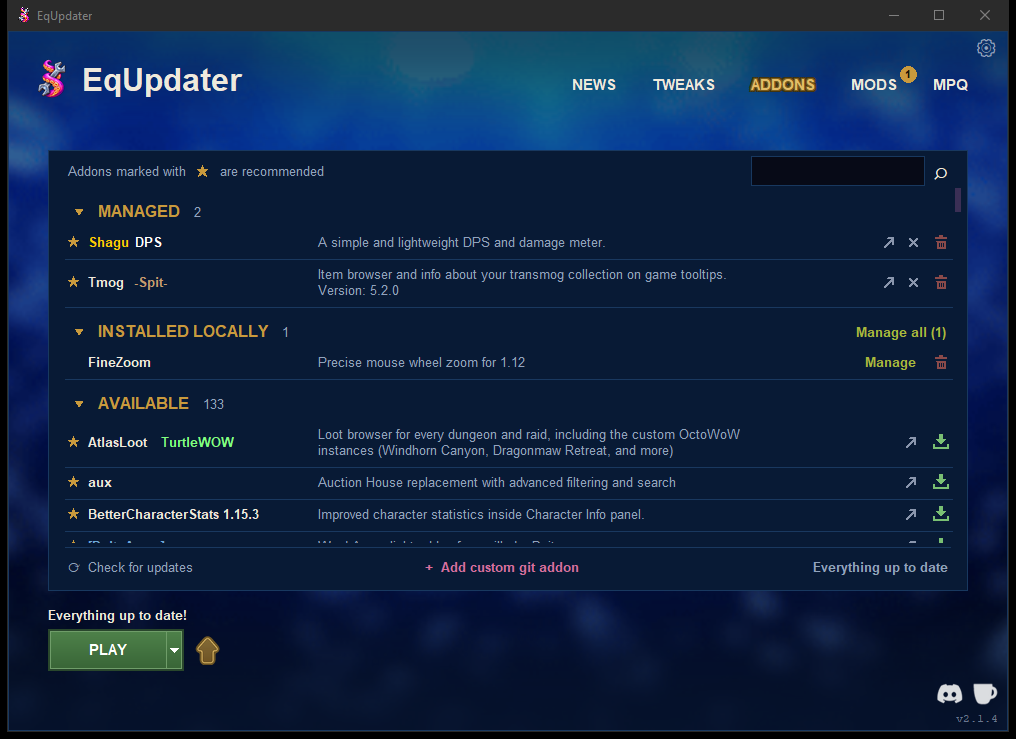
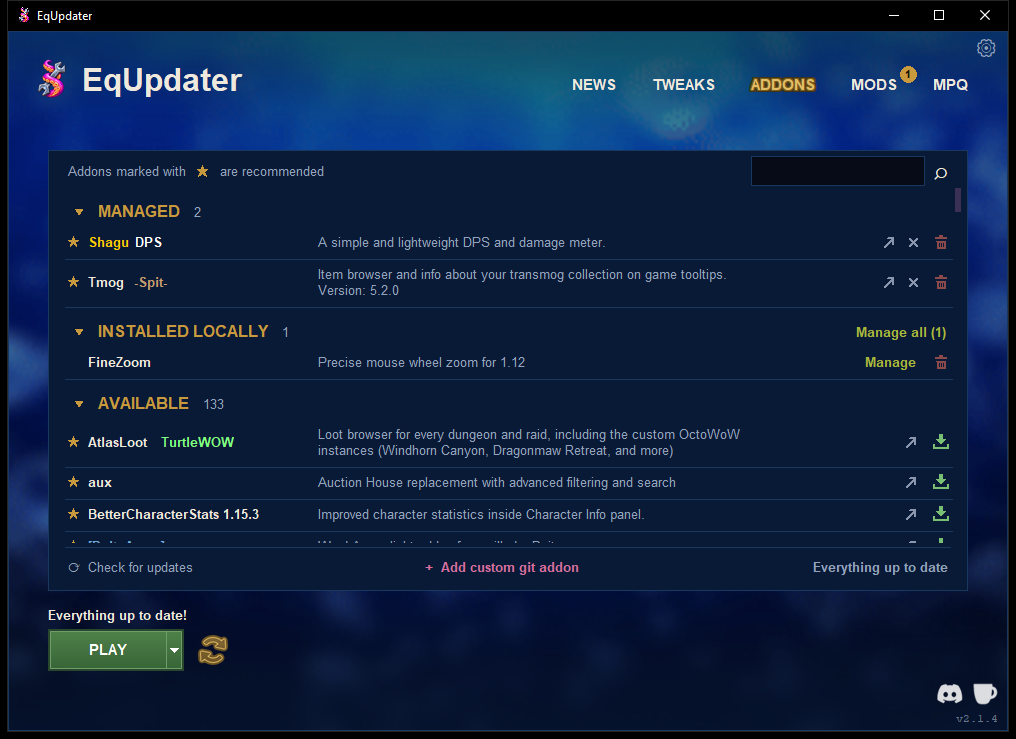
README: 2.1.4 screenshots with the update sign; changelog Show more and Read more

diff --git a/README.md b/README.md
@@ -50,11 +50,11 @@ Nothing else is needed: no Python, no build tools.
   are found, and one question (or **Manage all**) brings them under
   EqUpdater. A mod's version, or an addon's commit, is recorded only when its
   files match the published release exactly.
-- **Update everything** with the gold arrow beside PLAY. It is there only
-  when something can be updated safely.
+- **Update everything** with the gold update sign beside PLAY. It is there
+  only when something can be updated safely.
 - **Choose what PLAY starts**, **Game Diagnostics**, an **Auto Loot** setting
-  that addons cannot undo, a longer changelog under **Show more**, and News
-  headers that stay in view while you read.
+  that addons cannot undo, older changelog posts under **Show more**, and
+  News headers that stay in view while you read.
 
 <p align="center">
   <img src="docs/addons.png" alt="The ADDONS tab with its action icons" width="720">
@@ -244,8 +244,8 @@ is left as it is.
 - Switch an addon to another fork, ignore updates for one, or stop managing
   it. An addon cloned by OctoLauncher keeps its own source and commit when
   you manage it.
-- **Update everything at once** with the gold arrow beside PLAY: every
-  managed addon and mod with a proven update, and nothing else.
+- **Update everything at once** with the gold update sign beside PLAY:
+  every managed addon and mod with a proven update, and nothing else.
 - A failed install or update says why (for example the host's DDoS check,
   a timeout or a bad download), and the installed copy stays untouched until
   its replacement is in place.
@@ -321,8 +321,9 @@ memory, an addon that clicks the loot buttons itself, or anything while
   public news feed (`news.json`) stands in.
 - Changelog: the newest topics in the
   [Patch Notes and Changelog forum](https://octowow.st/forum/viewforum.php?f=4),
-  each opening to its patch notes; the newest is open. Long notes open to
-  their first lines, with **Show more** and **Show less**.
+  each opening to its patch notes; the newest is open. **Show more** under
+  the list brings older posts. Long notes open to their first lines, with
+  **Read more** and **Show less**.
 - While you read a long post, its title stays at the top of the panel; click
   it to close the post.
 - Links in posts can be clicked, and **Open in Browser ↗** opens the topic
